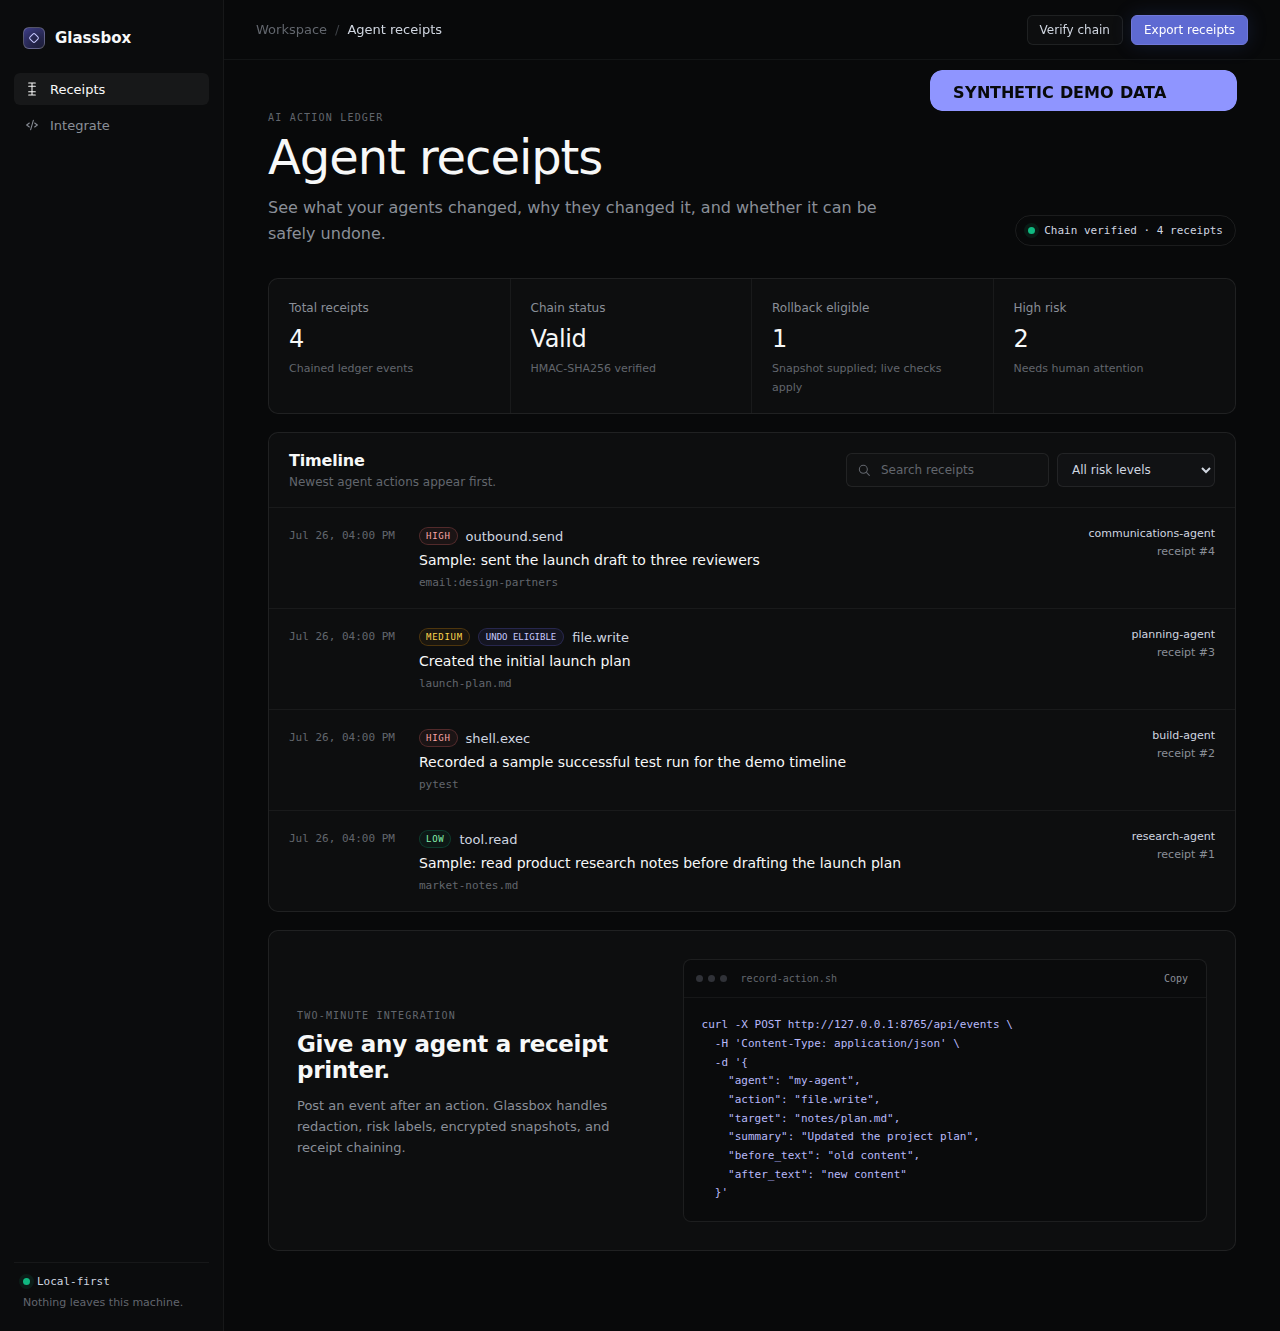
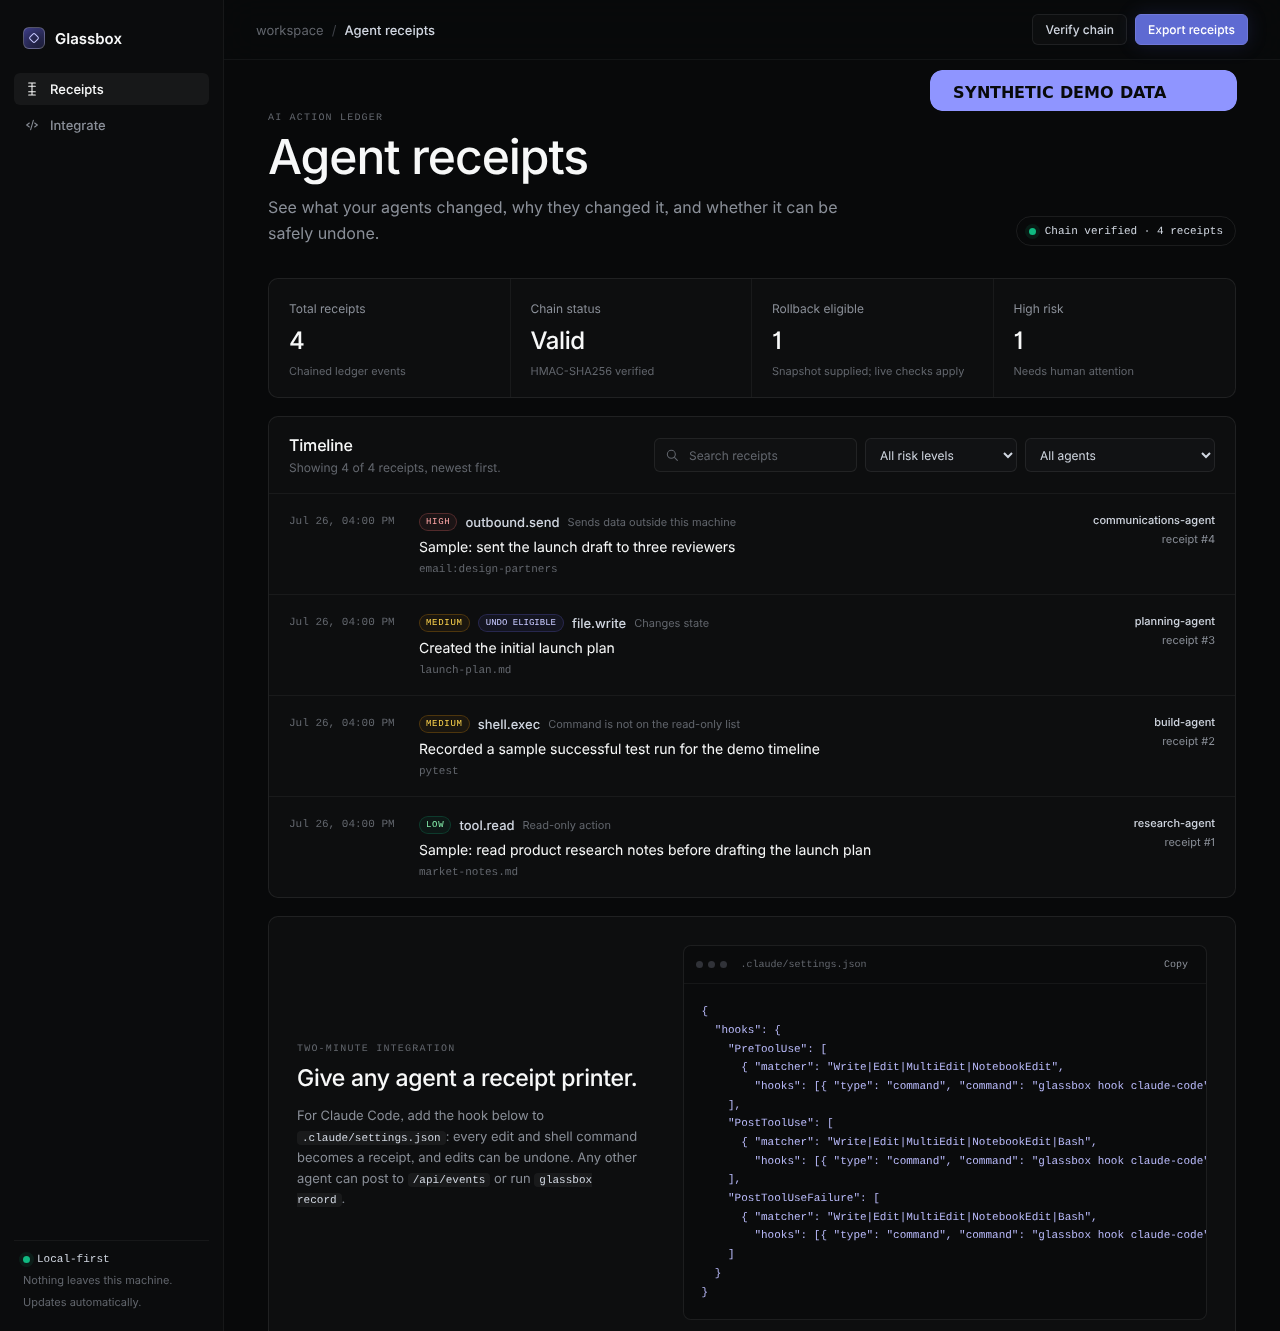
Re-render launch assets for the current dashboard (#34)
The dashboard now loads its data in more than one request, so the
renderer gives the page a virtual-time budget before capturing;
without it the screenshot showed the loading state. Also bring the
launch kit's canonical facts in line with the hook, create/delete
rollback, and head anchoring.

Claude-Session: https://claude.ai/code/session_01EaJq7EMCazfTUxziBoXzm6

diff --git a/docs/launch/README.md b/docs/launch/README.md
@@ -29,9 +29,9 @@ Output is **not guaranteed byte-for-byte across different rendering toolchains**
 Keep public descriptions consistent with the current README and source:
 
 - Glassbox is an Apache-2.0, local-first receipt ledger for submitted agent actions.
-- Integrations post events to Glassbox; the alpha does not automatically intercept agent tools.
-- HMAC chaining provides local tamper evidence but not public-key attestation or suffix-deletion detection without an external anchor.
-- Rollback currently covers eligible UTF-8 regular-file writes on supported Linux filesystems.
+- Glassbox records what a hook or integration submits. The bundled Claude Code hook records file edits and shell commands; a file changed by a shell command gets a receipt without a snapshot.
+- HMAC chaining provides local tamper evidence but not public-key attestation. Suffix deletion is detectable only against a head hash saved elsewhere with `glassbox head`.
+- Rollback currently covers eligible UTF-8 regular-file edits, creations, and deletions on supported Linux filesystems.
 - Rollback uses live chain, content, path, inode, ownership, mode, ACL, workspace, and restore-candidate checks.
 - SQLite and arbitrary workspace filesystems do not share a crash-atomic transaction.
 - The bundled server is loopback-only and has no remote authentication.
